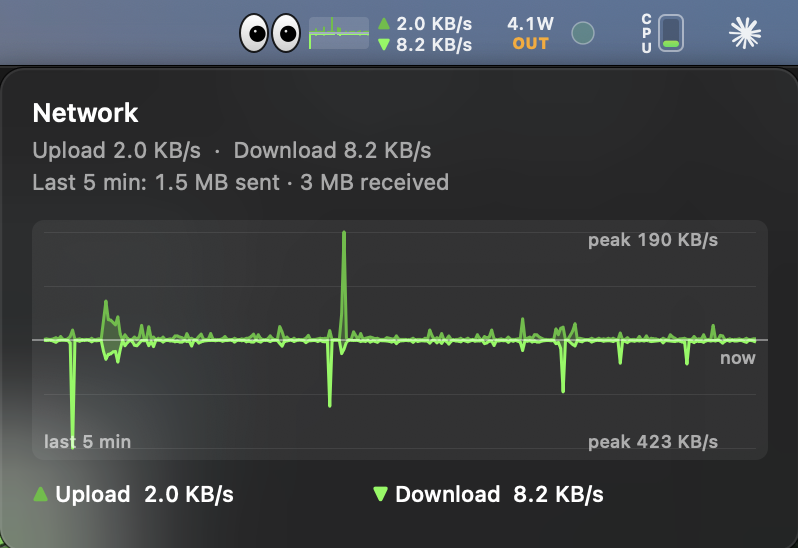
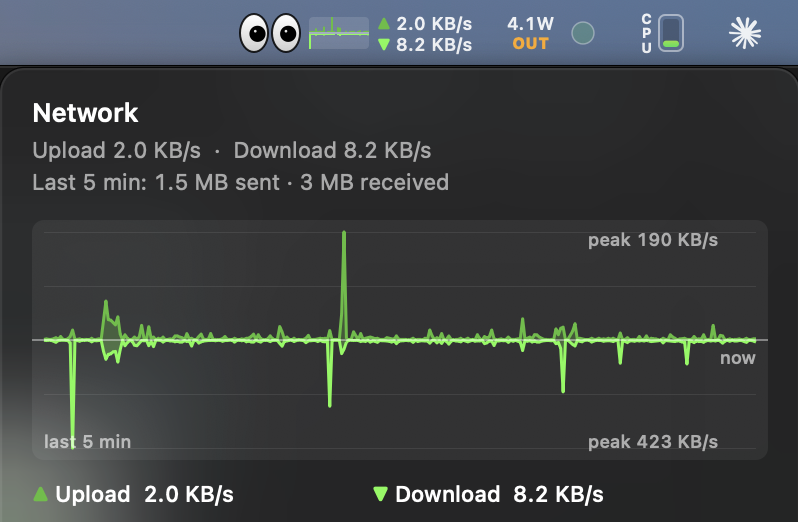
README: tighter screenshot crops
Claude-Session: https://claude.ai/code/session_01TPfdnKgy1NNymnDLZrvxeV

diff --git a/README.md b/README.md
@@ -21,7 +21,7 @@
 </p>
 
 <p align="center">
-  <img src="docs/media/menubar.png" width="790" alt="BoostBar in the macOS menu bar: googly eyes, network graph with upload/download speeds, battery watts and a disk LED, next to TMOG's CPU meter">
+  <img src="docs/media/menubar.png" width="660" alt="BoostBar in the macOS menu bar: googly eyes, network graph with upload/download speeds, battery watts and a disk LED, next to TMOG's CPU meter">
 </p>
 <p align="center">
   <img src="docs/media/menubar-hover.png" width="600" alt="Hovering the network graph opens a 5-minute upload/download chart">
